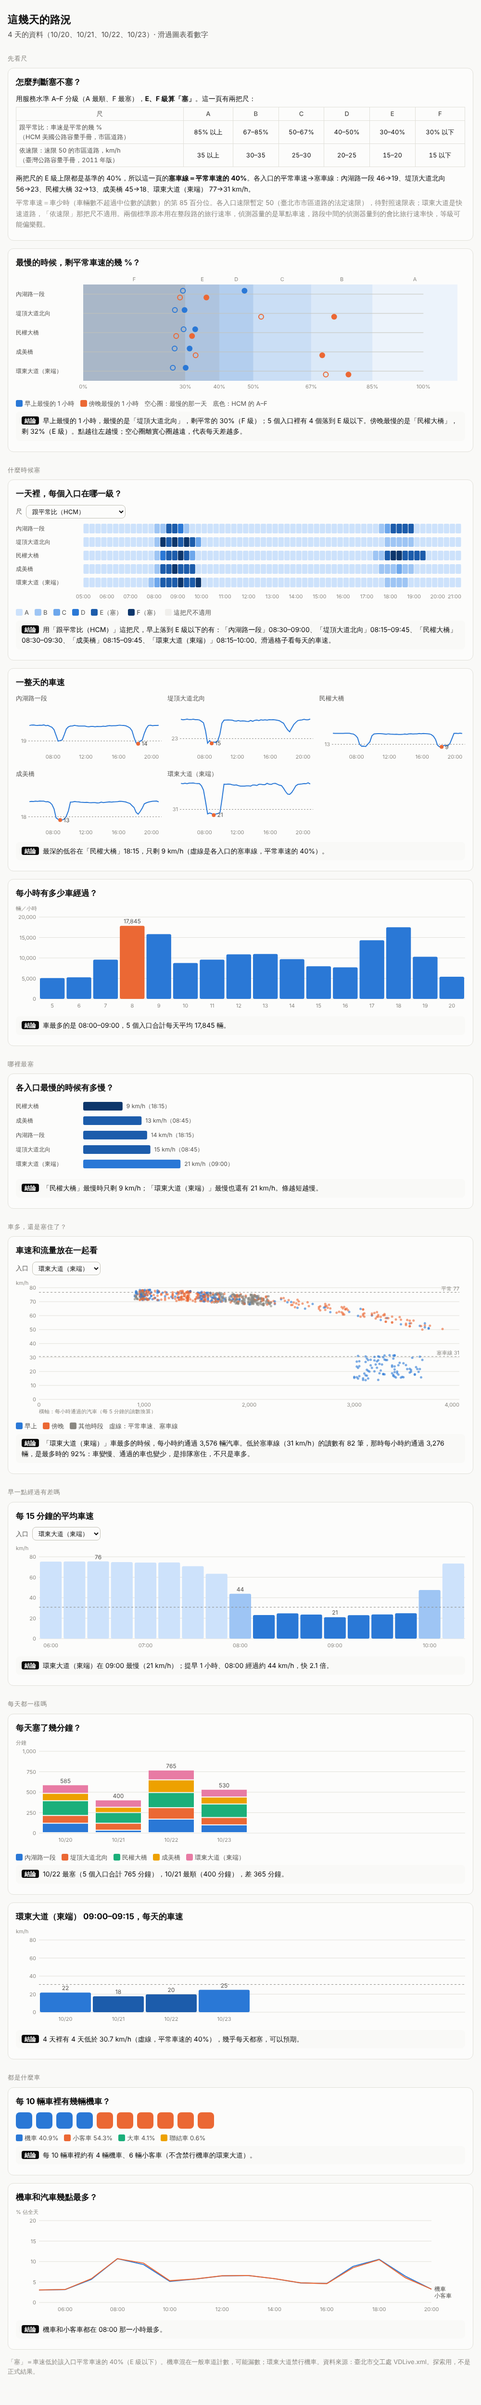
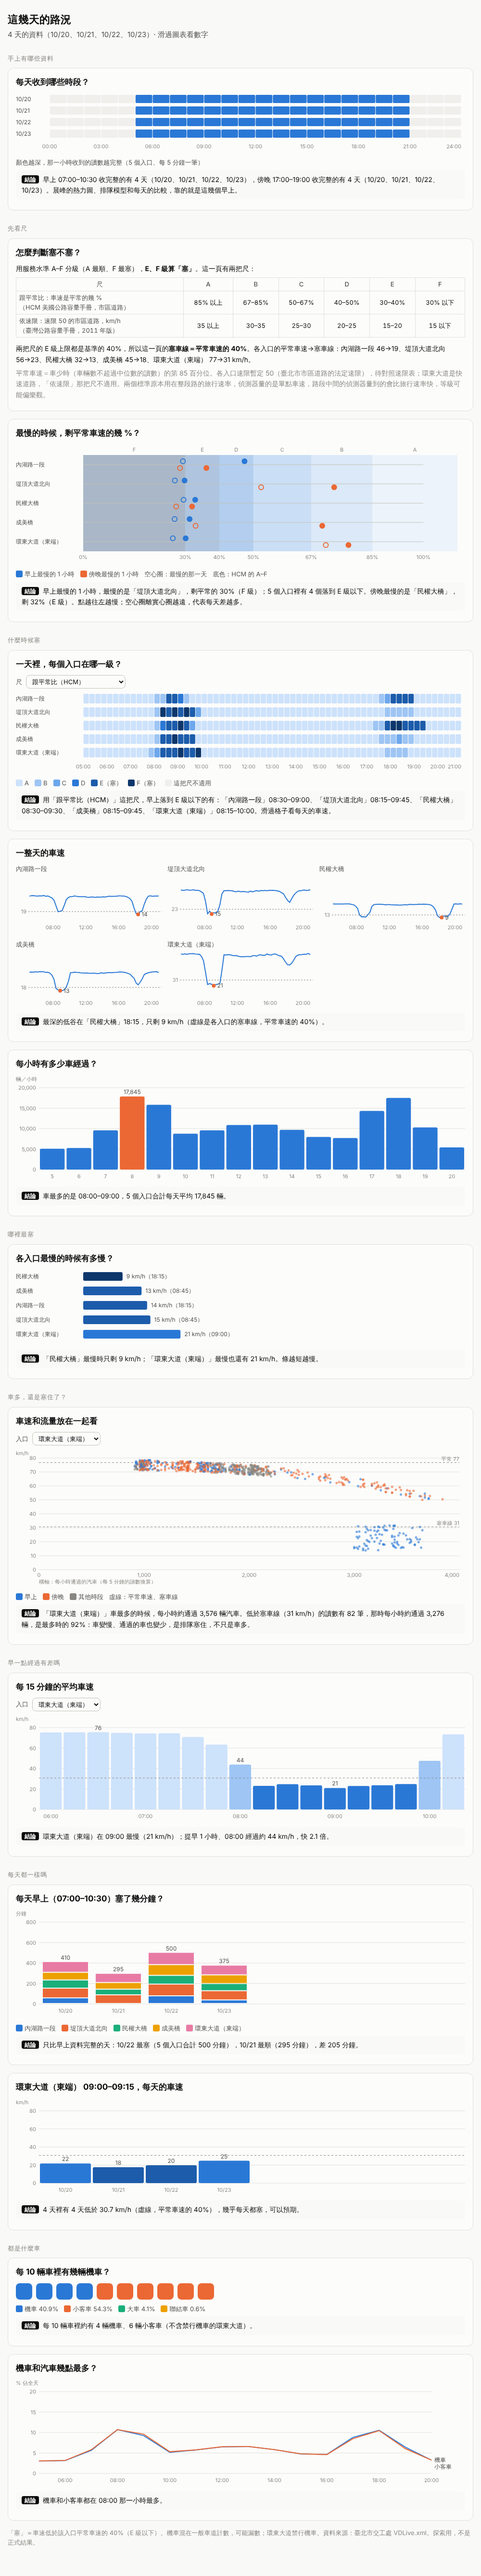
探索圖表：加上「每天收到哪些時段」，修正收集不完整時的平均
- 每小時多少車：改除以那個小時有資料的天數（原本除以全部天數，只收早上的天會把傍晚拉低）
- 每天塞了幾分鐘：只算 07:00–10:30，只比收完整的天，其餘標 *
- 沒有離峰資料時提醒「平常車速」可能偏低

Claude-Session: https://claude.ai/code/session_01Nzt1MSar4aFKZDVsrabvf9

diff --git a/docs/vd-explore/README.md b/docs/vd-explore/README.md
@@ -39,6 +39,14 @@ cd ~/Desktop/taipei-hackathon-2026 && git pull && python3 data/processed/explore
 
 每張圖只回答一個問題，圖下的「結論」是程式從資料自動算出來的一句話。
 
+### 手上有哪些資料
+
+| # | 圖 | 怎麼看 | 結論會寫什麼 |
+| --- | --- | --- | --- |
+| V | 每天收到哪些時段 | 一天一列、一小時一格，顏色越深收得越完整 | 早上 07:00–10:30、傍晚 17:00–19:00 各有幾天收完整；沒有離峰資料時提醒「平常車速」可能偏低 |
+
+收集不是每天都完整也沒關係：晨峰的分析只需要平日 07:00–10:30。會受影響的地方已經處理：每小時的車數除以「那個小時有資料的天數」；每天的比較只看 07:00–10:30，而且只比收完整的天；「剩平常的幾 %」需要一些離峰的讀數，補收一個晚上就夠。
+
 ### 先看尺
 
 | # | 圖 | 怎麼看 | 結論會寫什麼 |
@@ -51,7 +59,7 @@ cd ~/Desktop/taipei-hackathon-2026 && git pull && python3 data/processed/explore
 | --- | --- | --- | --- |
 | 1 | 一天裡每個入口在哪一級 | 每 15 分鐘一格，顏色是 A–F（各天的中位數）；可以切換兩把尺，滑過格子看每天的車速與「幾天裡有幾天在 E 級以下」 | 早上落到 E 級以下的入口與時段 |
 | 2 | 一整天的車速 | 每個入口一張小圖，同樣的刻度；橘點是最低點，虛線是塞車線 | 最深的低谷在哪個入口、幾點、剩多少 km/h |
-| 3 | 每小時有多少車 | 5 個入口合計、每天平均；橘色是最多的那一小時 | 車最多的是幾點到幾點、每小時幾輛 |
+| 3 | 每小時有多少車 | 5 個入口合計、每天平均（只除以那個小時有資料的天數）；橘色是最多的那一小時 | 車最多的是幾點到幾點、每小時幾輛 |
 
 ### 哪裡最塞
 
@@ -75,7 +83,7 @@ cd ~/Desktop/taipei-hackathon-2026 && git pull && python3 data/processed/explore
 
 | # | 圖 | 怎麼看 | 結論會寫什麼 |
 | --- | --- | --- | --- |
-| 7 | 每天塞了幾分鐘 | 一天一根，各入口疊起來 | 哪天最塞、哪天最順、差幾分鐘 |
+| 7 | 每天早上塞了幾分鐘 | 只算 07:00–10:30，一天一根，各入口疊起來；那段沒收完整的天顏色變淡、日期加 * | 收完整的天裡，哪天最塞、哪天最順、差幾分鐘 |
 | 8 | 最塞的 15 分鐘，每天的車速 | 最塞入口的最塞時段，一天一根 | 幾天裡有幾天低於塞車線，能不能預期 |
 
 ### 都是什麼車
